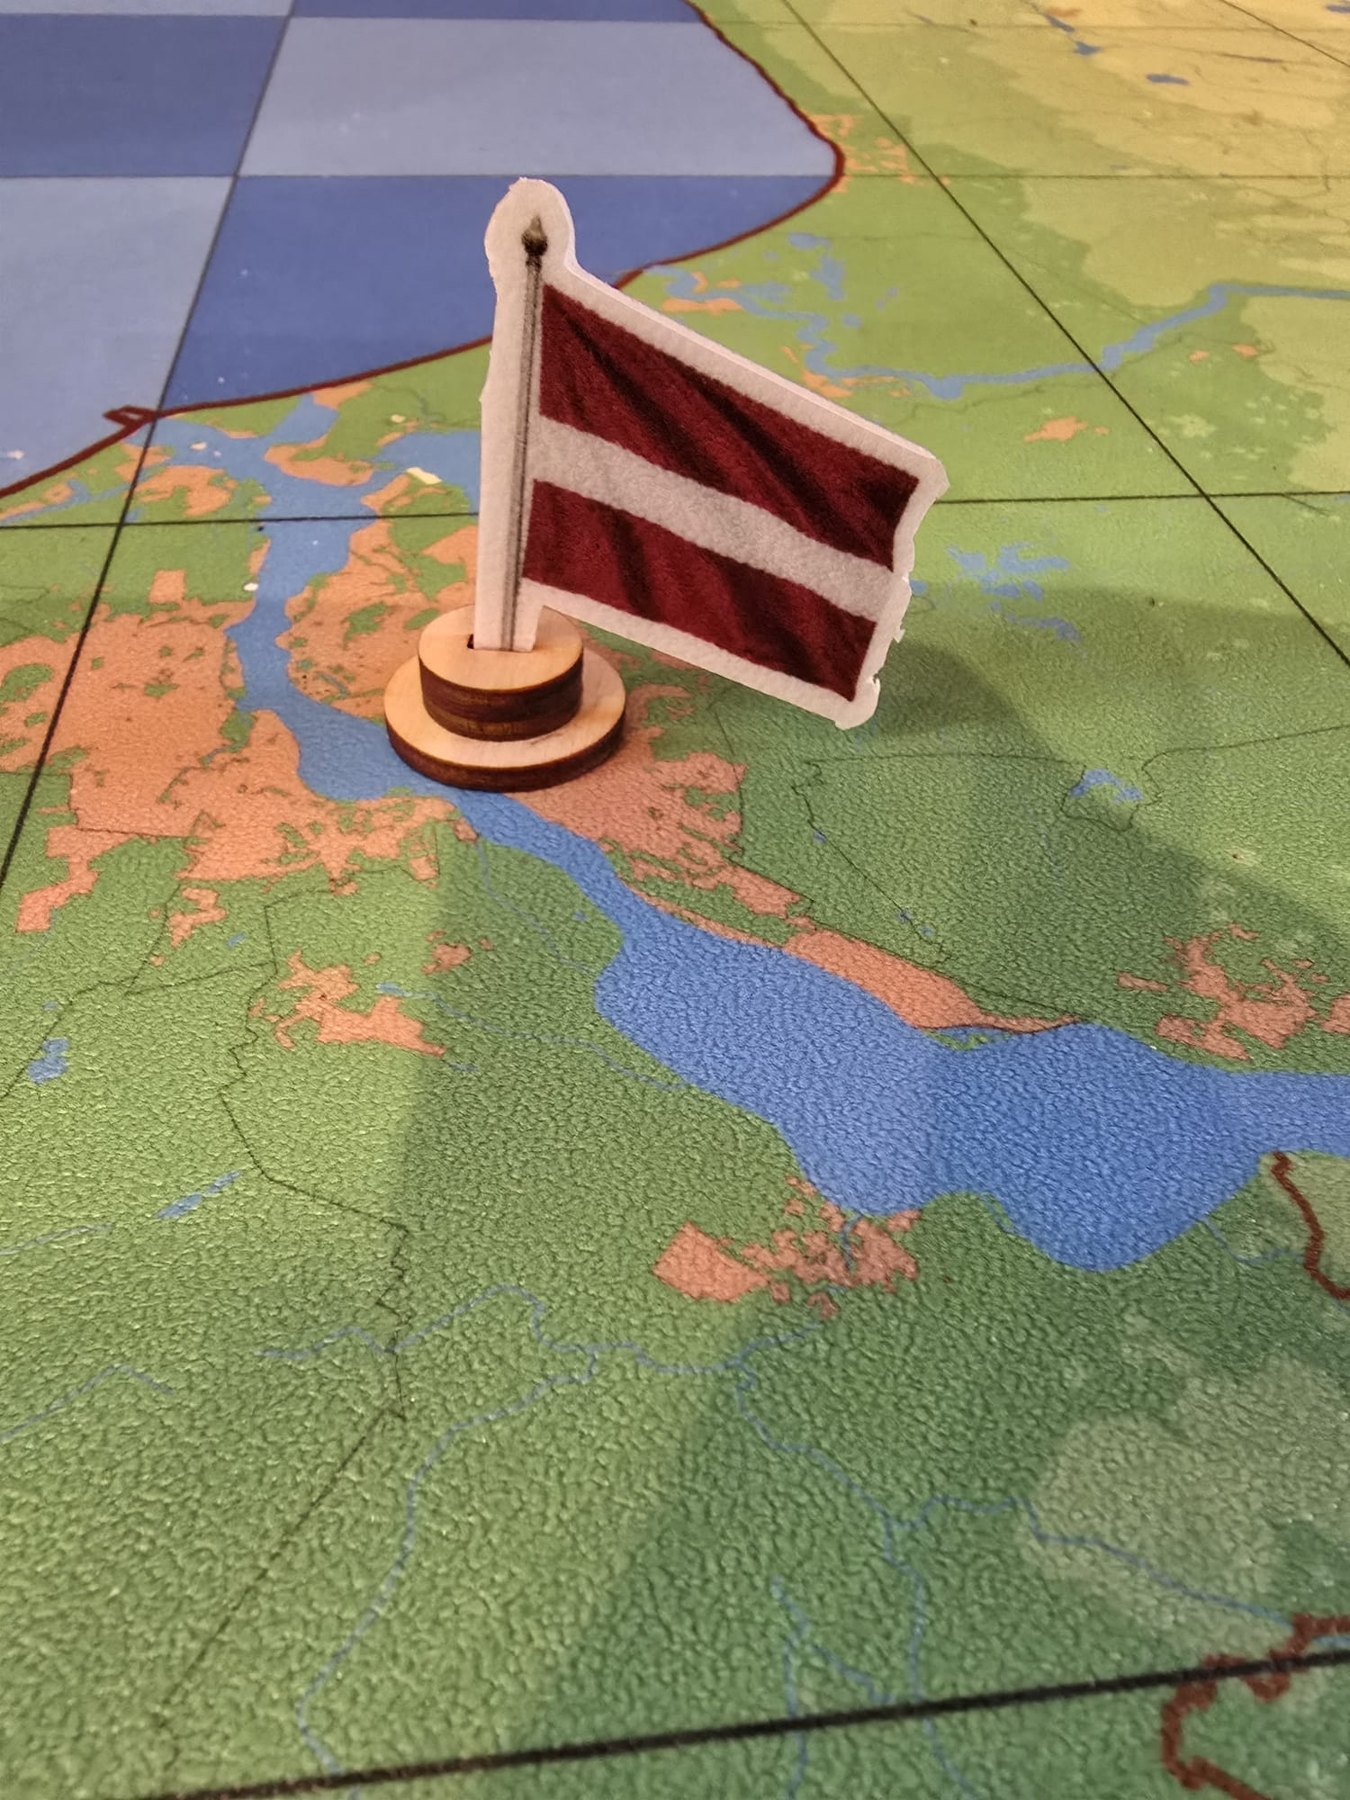
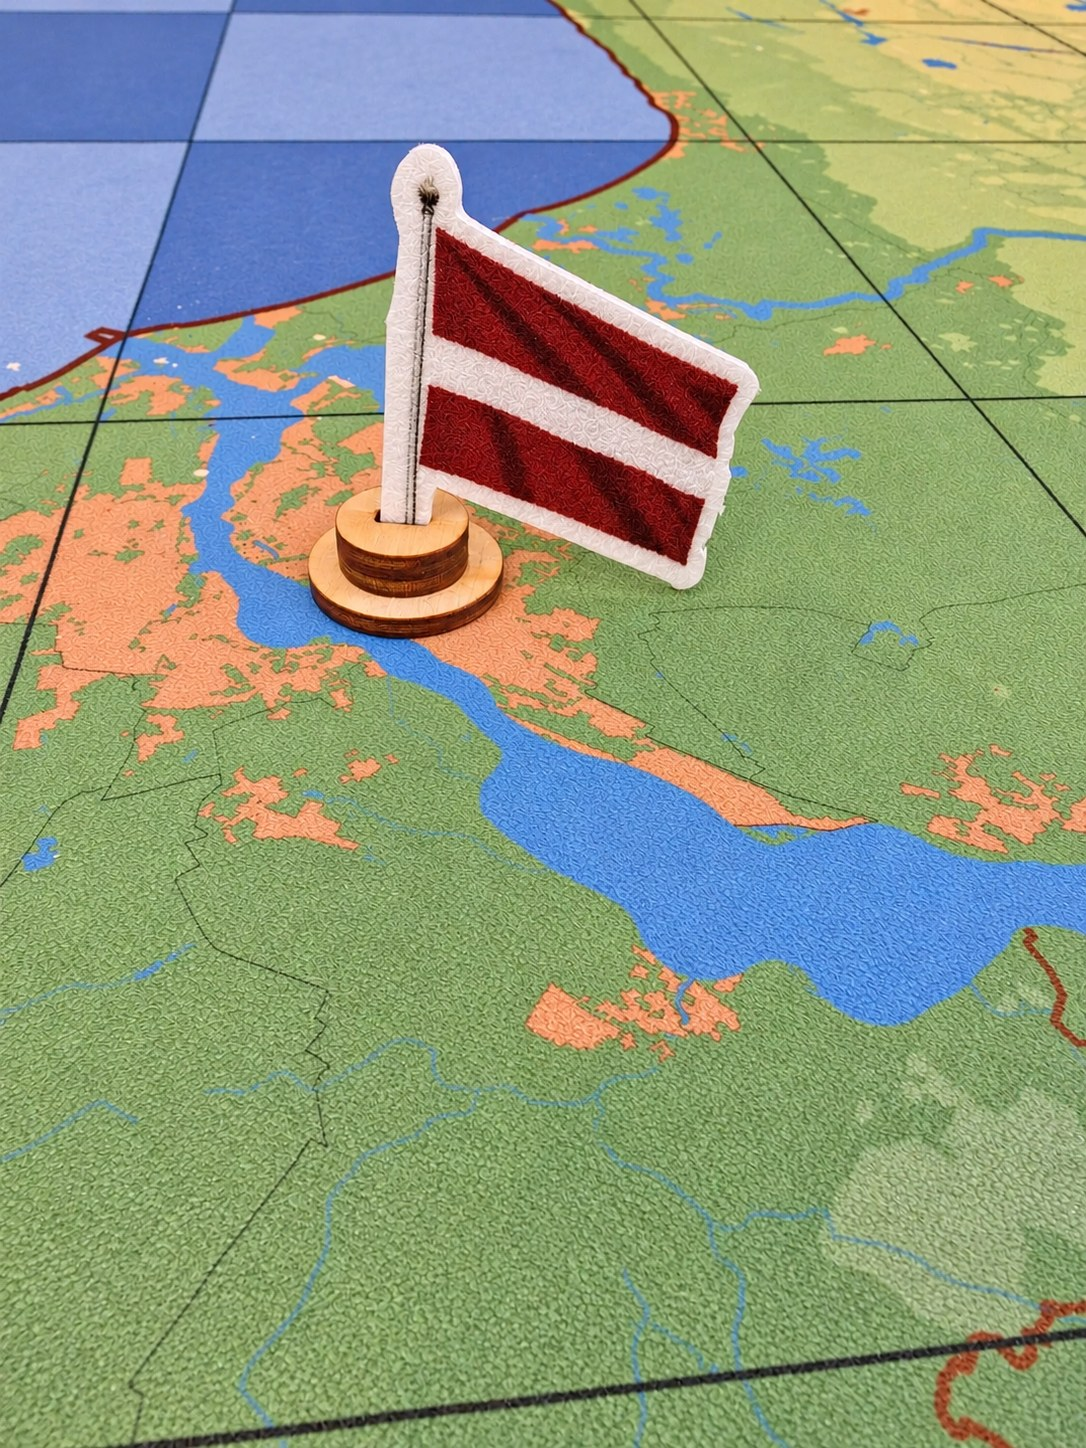
Galerija: jauna karodziņa bilde
Claude-Session: https://claude.ai/code/session_015bKgZJWkHRUcjHv33818tm

diff --git a/index.html b/index.html
@@ -463,7 +463,7 @@ html,body,button,input,select,textarea,h1,h2,h3,h4,p,a,li,span,small,b,strong,bl
       <button type="button" class="ph" data-full="img/gal/zetoni_visi.jpg" data-cat="prakse"><img src="img/zetoni_visi.jpg" width="525" height="700" alt="Visi dārgumu žetoni" loading="lazy"></button>
       <button type="button" class="ph" data-full="img/gal/viss.jpg" data-cat="komplekts" data-i="7"><img src="img/viss.jpg" width="750" height="1000" alt="Visas pamatkomplekta kartītes" loading="lazy"></button>
       <button type="button" class="ph" data-full="img/gal/legenda.jpg" data-cat="komplekts" data-i="8"><img src="img/legenda.jpg" width="1000" height="750" alt="Kartes leģenda un kompass" loading="lazy"></button>
-      <button type="button" class="ph" data-full="img/gal/karodzins.jpg" data-cat="komplekts" data-i="10"><img src="img/karodzins.jpg" width="750" height="1000" alt="Uzvarētājs uzstāda karodziņu Rīgā" loading="lazy"></button>
+      <button type="button" class="ph" data-full="img/gal/karodzins.jpg" data-cat="komplekts" data-i="10"><img src="img/karodzins.jpg" width="525" height="700" alt="Uzvarētājs uzstāda karodziņu Rīgā" loading="lazy"></button>
       <button type="button" class="ph" data-full="img/gal/pilsetas.jpg" data-cat="kartites" data-i="12"><img src="img/pilsetas.jpg" width="750" height="1000" alt="Valstspilsētas ar ģerboņiem" loading="lazy"></button>
       <button type="button" class="ph" data-full="img/gal/novadi.jpg" data-cat="kartites" data-i="13"><img src="img/novadi.jpg" width="525" height="700" alt="Kultūrvēsturiskie novadi" loading="lazy"></button>
       <button type="button" class="ph" data-full="img/gal/upes.jpg" data-cat="kartites" data-i="14"><img src="img/upes.jpg" width="700" height="525" alt="Latvijas upes" loading="lazy"></button>
